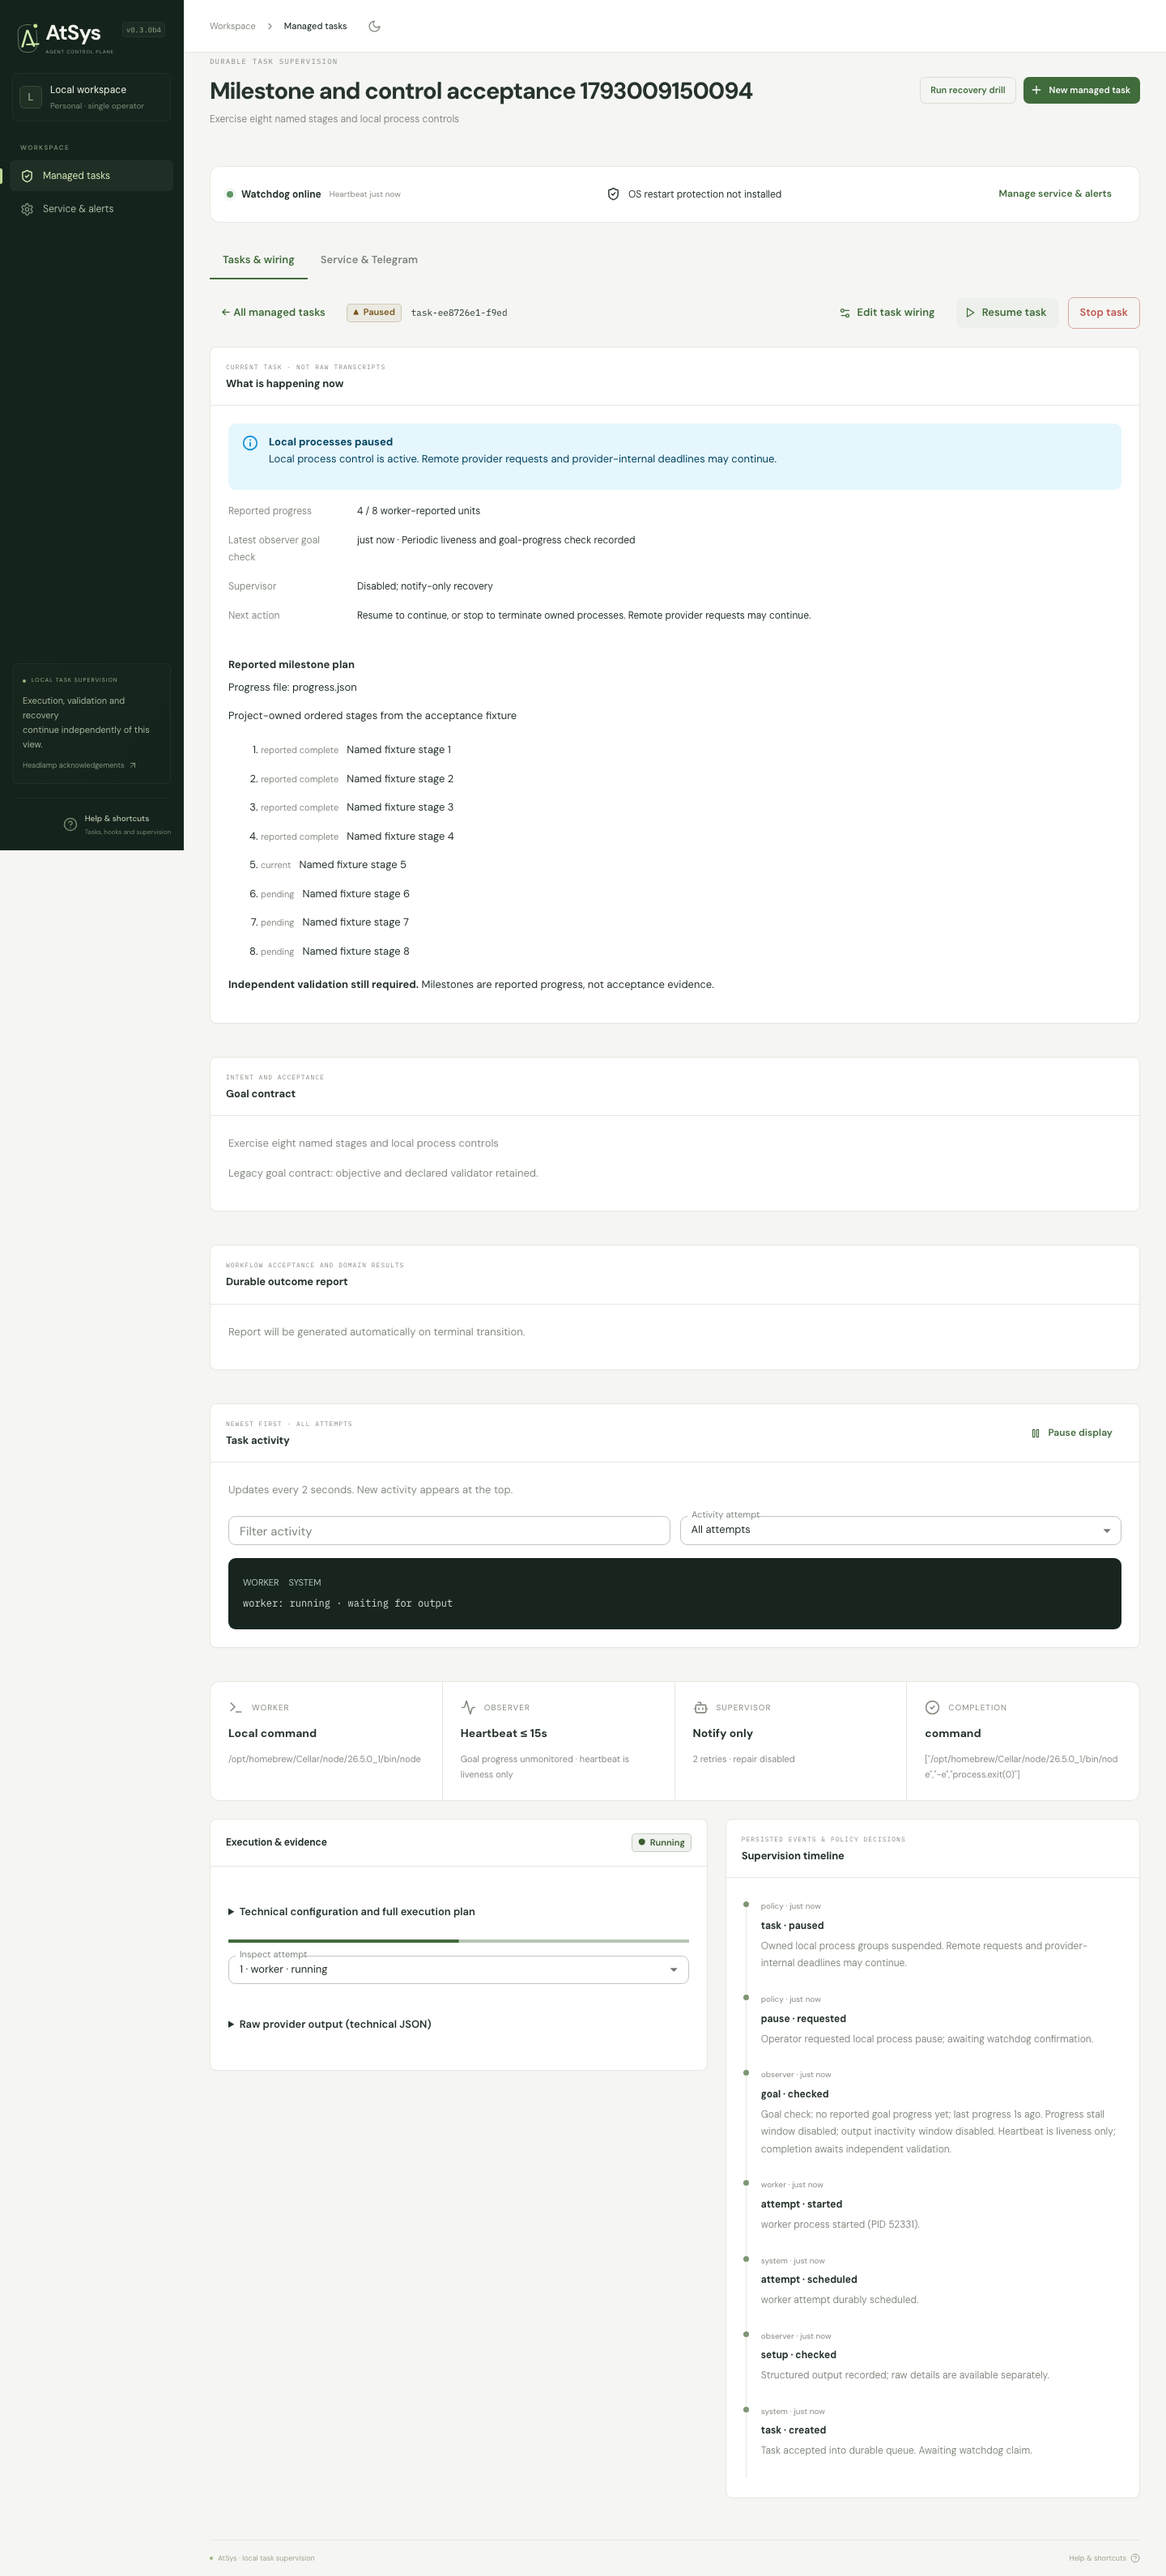
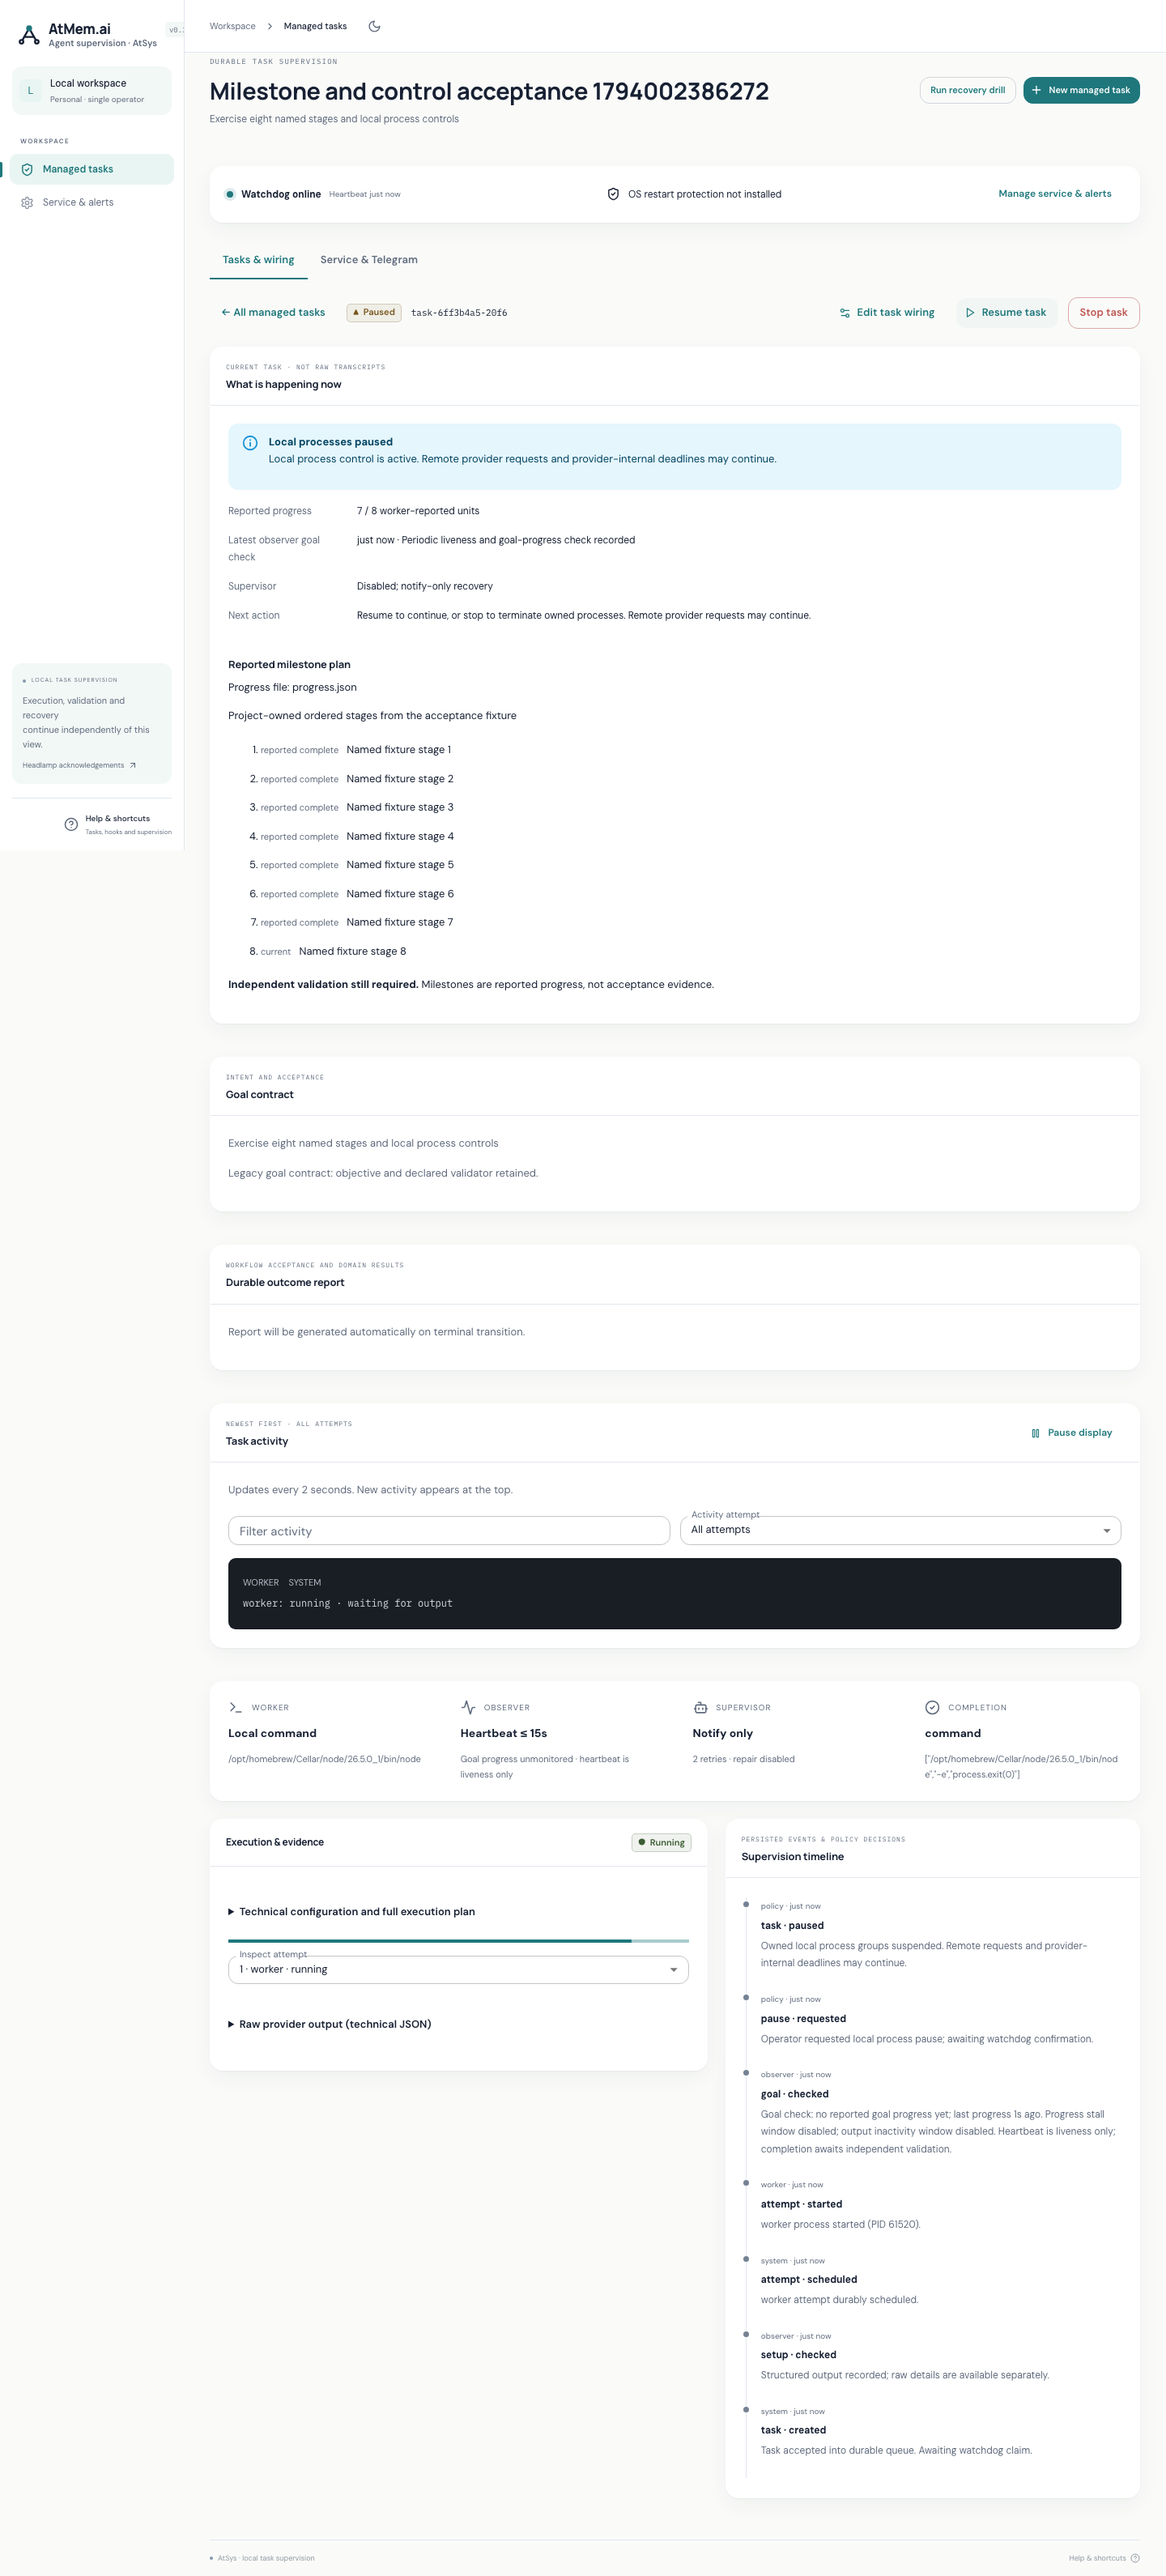
release: AtSys 0.3.3 with the AtMem.ai Architecture Canvas dashboard
Version 0.3.3 in pyproject, package metadata and the Python package; release
note, install commands and refreshed dashboard screenshots.

diff --git a/python/atsys/__init__.py b/python/atsys/__init__.py
@@ -1,2 +1,2 @@
 """AtSys: installed command and bundled task supervision runtime."""
-__version__ = "0.3.2"
+__version__ = "0.3.3"

diff --git a/docs/PACKAGING.md b/docs/PACKAGING.md
@@ -4,26 +4,26 @@ The wheel packages this checkout's operational runtime and web dashboard. It pre
 
 ## Capacity fallback
 
-AtSys 0.3.2 includes opt-in capacity fallback. See [release notes](releases/v0.3.2.md) for configuration and limitations.
+AtSys 0.3.3 includes opt-in capacity fallback and the AtMem.ai dashboard theme. See [release notes](releases/v0.3.3.md) for configuration and limitations.
 
 ## Install the published release
 
-The stable provider release is installed with `python -m pip install --upgrade atsys==0.3.2`. See [release notes](releases/v0.3.2.md). Pause requires the upgraded watchdog and newly launched runners; older active runners can still be stopped.
+The stable provider release is installed with `python -m pip install --upgrade atsys==0.3.3`. See [release notes](releases/v0.3.3.md). Pause requires the upgraded watchdog and newly launched runners; older active runners can still be stopped.
 
 ```sh
-python -m pip install --upgrade atsys==0.3.2
+python -m pip install --upgrade atsys==0.3.3
 cd /path/to/your/project
 atsys init
 ```
 
-See [0.3.2 release notes](releases/v0.3.2.md), [PyPI](https://pypi.org/project/atsys/0.3.2/) and [GitHub release assets](https://github.com/aetna000/atsys/releases/tag/v0.3.2). Publication is complete only after the tag workflow and registry checks succeed. The historical [0.2.0 workflow](https://github.com/aetna000/atsys/actions/runs/40031931023) established the Trusted Publishing setup; its recorded artifact hashes apply only to that older release.
+See [0.3.3 release notes](releases/v0.3.3.md), [PyPI](https://pypi.org/project/atsys/0.3.3/) and [GitHub release assets](https://github.com/aetna000/atsys/releases/tag/v0.3.3). Publication is complete only after the tag workflow and registry checks succeed. The historical [0.2.0 workflow](https://github.com/aetna000/atsys/actions/runs/40031931023) established the Trusted Publishing setup; its recorded artifact hashes apply only to that older release.
 
 ## Use a downloaded or locally built release
 
 ```sh
-pip install /absolute/path/to/release/atsys-0.3.2-py3-none-any.whl
+pip install /absolute/path/to/release/atsys-0.3.3-py3-none-any.whl
 # Alternatively, isolate the command with pipx or uv:
-uv tool install /absolute/path/to/release/atsys-0.3.2-py3-none-any.whl
+uv tool install /absolute/path/to/release/atsys-0.3.3-py3-none-any.whl
 cd /path/to/existing/git/repository
 atsys init
 ```
@@ -63,7 +63,7 @@ python -m pip install build twine
 python -m build --outdir release
 python -m twine check release/*
 python -m venv /tmp/atsys-wheel-test
-/tmp/atsys-wheel-test/bin/pip install release/atsys-0.3.2-py3-none-any.whl
+/tmp/atsys-wheel-test/bin/pip install release/atsys-0.3.3-py3-none-any.whl
 /tmp/atsys-wheel-test/bin/python tests/packaging/test_install.py -v
 ```
 

diff --git a/README.md b/README.md
@@ -11,7 +11,7 @@ The benchmark failure motivated this project; benchmarks are not its domain mode
 Install the Python release (Python 3.10+):
 
 ```sh
-python -m pip install --upgrade atsys==0.3.2
+python -m pip install --upgrade atsys==0.3.3
 cd /path/to/your/project
 atsys init
 ```
@@ -26,7 +26,14 @@ The packaged skill handles repository inspection, planning, task configuration, 
 
 `atsys init` installs the project skill, starts the macOS watchdog service and launches the bundled dashboard. `atsys ui` opens it again; `atsys task list` shows managed work. The dashboard starts at **http://127.0.0.1:4310**, choosing another free port if a different instance is there. Always use the reported URL. Installed state lives in `~/.local/share/atsys`, independent of the package and repository. `ATSYS_DATA_DIR` overrides it.
 
-The wheel includes the backend and dashboard; its Python dependency supplies Node 24. No npm or source checkout is required at runtime. Codex CLI and its existing login are needed for Codex workers, supervisors and repairs. See [AtSys 0.3.2 on PyPI](https://pypi.org/project/atsys/0.3.2/), the [GitHub release](https://github.com/aetna000/atsys/releases/tag/v0.3.2) and [release notes](docs/releases/v0.3.2.md). See [packaging, verification and release instructions](docs/PACKAGING.md).
+The wheel includes the backend and dashboard; its Python dependency supplies Node 24. No npm or source checkout is required at runtime. Codex CLI and its existing login are needed for Codex workers, supervisors and repairs. See [AtSys 0.3.3 on PyPI](https://pypi.org/project/atsys/0.3.3/), the [GitHub release](https://github.com/aetna000/atsys/releases/tag/v0.3.3) and [release notes](docs/releases/v0.3.3.md). See [packaging, verification and release instructions](docs/PACKAGING.md).
+
+## New in 0.3.3
+
+The dashboard adopts the AtMem.ai Architecture Canvas look: the AtMem.ai mark
+and "Agent supervision" name, softer surfaces and a light sidebar. It opens in
+the light theme; dark mode is a saved choice. Supervision behavior is unchanged.
+See the [release notes](docs/releases/v0.3.3.md).
 
 ## New in 0.3.2
 

diff --git a/docs/releases/v0.3.3.md b/docs/releases/v0.3.3.md
@@ -1,0 +1,27 @@
+# AtSys 0.3.3
+
+Dashboard appearance release, coordinated with AtMem 2.3.13, AtFlows 0.1.6 and
+the refreshed AtMem.ai website. Task supervision, validation, recovery, hooks
+and provider behavior are unchanged.
+
+- The dashboard uses the AtMem.ai Architecture Canvas theme: the AtMem.ai mark
+  with the "Agent supervision" name, Manrope headings, a teal accent, softer
+  floating surfaces and a light sidebar in the light theme.
+- The dashboard opens in the light theme. Dark mode is used only when you
+  choose it with the theme toggle; the choice is remembered in the browser.
+
+Install or upgrade with Python 3.10 or later:
+
+```sh
+python -m pip install --upgrade atsys==0.3.3
+atsys --version
+```
+
+Before replacing a running installation or upgrading the watchdog, let its
+active tasks finish or explicitly stop them; retain the data directory and
+restart only a watchdog you own. Existing task data and configurations remain
+compatible. Reopen the dashboard with `atsys ui` to load the new look.
+macOS and Linux are supported; Windows supervision is unsupported.
+
+Visual change only. All limitations described for [0.3.2](v0.3.2.md), including
+those of opt-in capacity fallback, still apply.

diff --git a/python/README.md b/python/README.md
@@ -3,7 +3,7 @@
 Installable supervision for general coding work: features, bug fixes, refactors, tests, builds, migrations and scripts.
 
 ```sh
-pip install --upgrade atsys==0.3.2
+pip install --upgrade atsys==0.3.3
 cd /path/to/your/project
 atsys init
 ```
